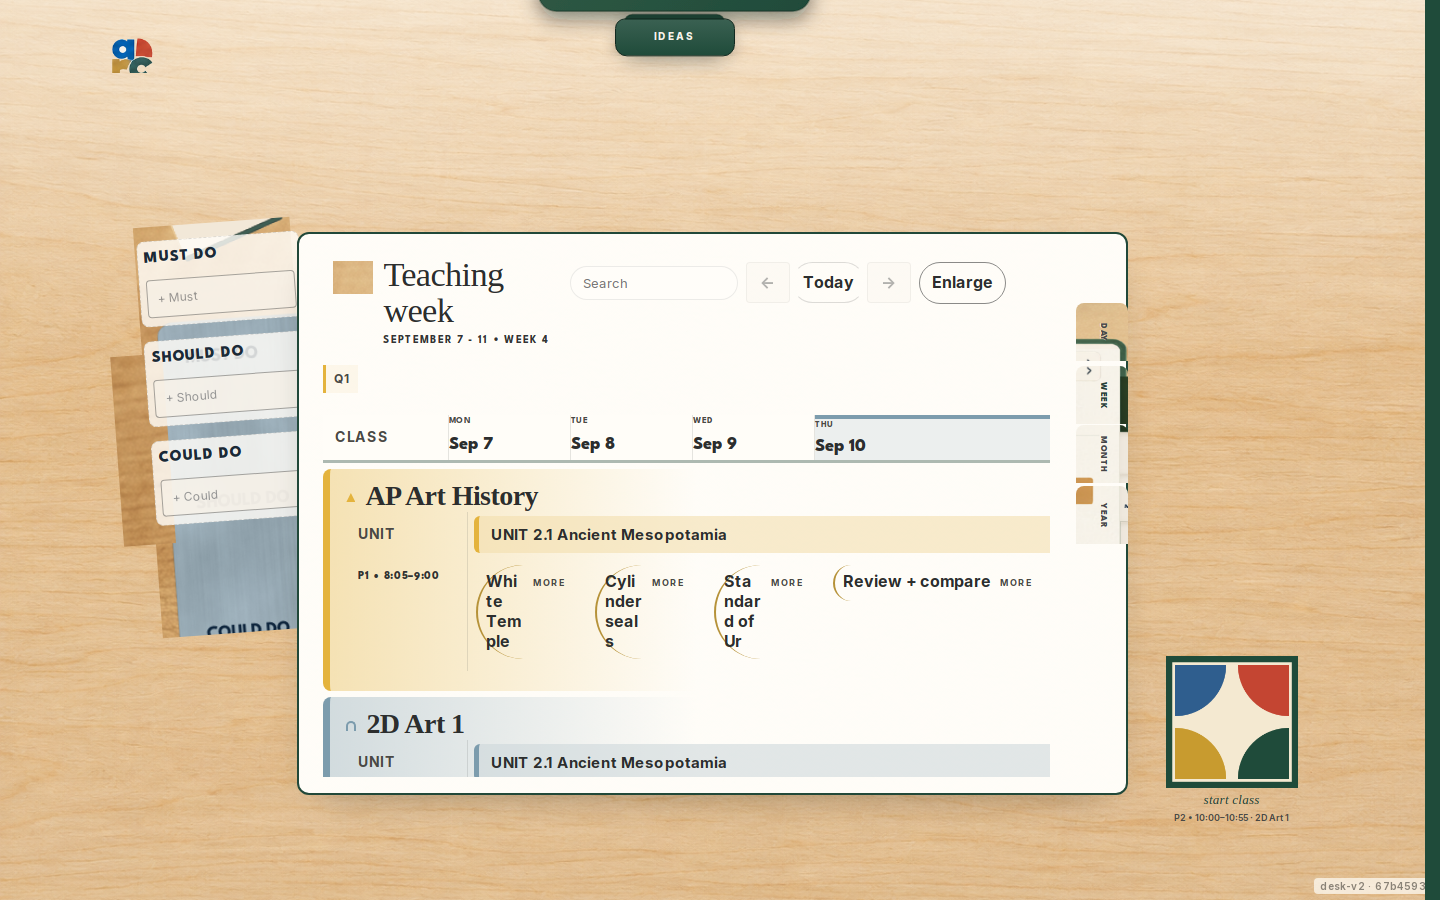
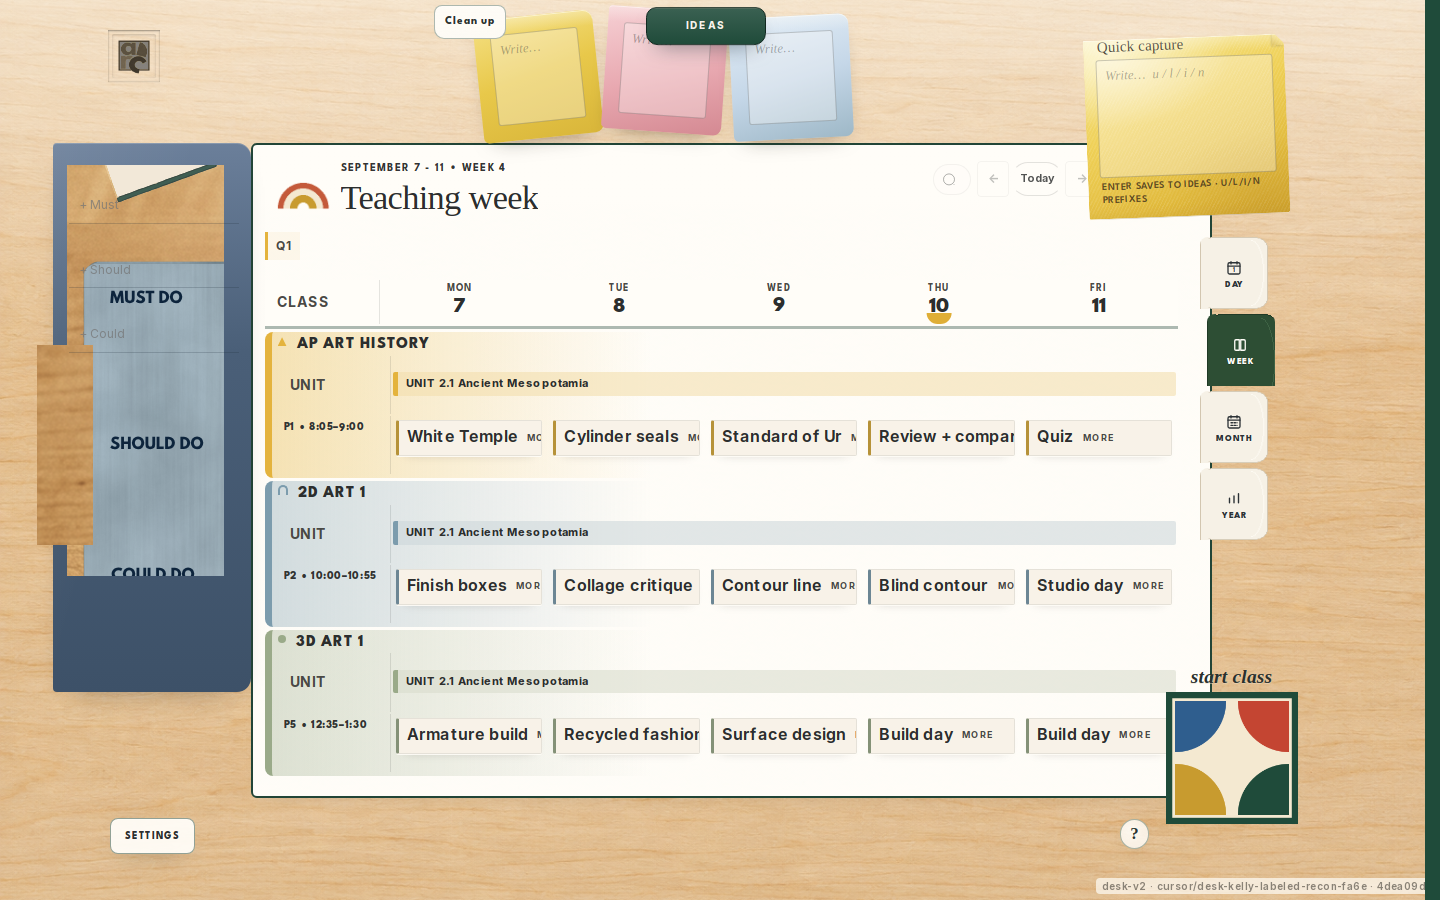
docs(desk): Kelly recon evidence + BLOCKED P0 binary status
Record recon-pass landing note, Week-grid evidence screenshots, and
fresh arc-desk-pass smoke captures. Kelly labeled SVG binaries remain
absent; all P0 asset wires stay BLOCKED.

diff --git a/public/assets/desk/canonical/README.md b/public/assets/desk/canonical/README.md
@@ -4,6 +4,14 @@ Source: Kelly-labeled SVG handoff, 2026-09-15.
 
 These assets are staged for visual reconciliation. They do **not** automatically supersede currently wired production assets until the component mapping is verified. Filenames containing `(USE)` in the source handoff are the strongest source-of-truth signal.
 
+## Recon pass landing (2026-09-15)
+
+- **SHA:** `4dea09d` (feature) → lands on `main` after this pass.
+- **P0 asset wires:** all **BLOCKED** — Kelly labeled SVG binaries still absent (Drive/Gmail/`uploads/desk-incoming`/`asset-reconciliation-labeled-svgs` empty of the 22 files).
+- **Shipped without binaries:** Week-grid repair (MON/day headers, paper lesson objects, denser unit/course hierarchy, softer planner rim, `object-fit:contain` on todos slice).
+- **Smokes:** `test:arc-desk-pass` + `test:desk-slices` passed on preview stamped `desk-v2` / `4dea09d`.
+- **Evidence:** `docs/overnight/evidence/kelly-labeled-recon/` + arc-desk-pass smoke shots.
+
 ## Binary handoff status (2026-09-15 recon pass)
 
 **BLOCKED — binaries not in repo.** Branch `asset-reconciliation-labeled-svgs` ships only this README (filename → canonical map). Exhaustive search found **no** Kelly labeled SVG binaries in:
